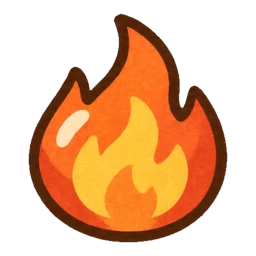
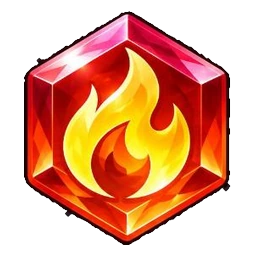
v0.73.0: bộ ngọc 3D mới (ngọc thường + Nâng Cấp), bỏ lớp bóng kính vẽ bằng code
Claude-Session: https://claude.ai/code/session_01Q71dSV1Aw33VZ7jDMhTJpy

diff --git a/www/js/ui/render.js b/www/js/ui/render.js
@@ -50,87 +50,15 @@ function enhancedAura(g, x, y, r) {
   g.restore();
 }
 
-const nowMs = () => (typeof performance !== 'undefined' ? performance.now() : 0);
-
-// Ngọc 2.5D: dựng sẵn một lần cho mỗi art (đổ khối + bóng kính + ánh phản chiếu đáy), vẽ mỗi khung chỉ là drawImage.
-const sprites = new Map();
-function orbSprite(key, im, col, shiny = 1) {
-  if (!im || !im.naturalWidth) return im;
-  const hit = sprites.get(key);
-  if (hit && hit.src === im) return hit.cv;
-  const S = 192;
-  const cv = document.createElement('canvas');
-  cv.width = S; cv.height = S;
-  const c = cv.getContext('2d');
-  c.drawImage(im, 0, 0, S, S);
-  c.globalCompositeOperation = 'source-atop'; // mọi lớp dưới đây chỉ tô lên phần có hình
-  // khối: sáng ở góc trên trái, tối dần về góc dưới phải
-  let gr = c.createRadialGradient(S * 0.36, S * 0.3, S * 0.05, S * 0.5, S * 0.5, S * 0.78);
-  gr.addColorStop(0, 'rgba(255,255,255,0.30)');
-  gr.addColorStop(0.45, 'rgba(255,255,255,0)');
-  gr.addColorStop(1, 'rgba(10,4,0,0.42)');
-  c.fillStyle = gr; c.fillRect(0, 0, S, S);
-  // ánh phản chiếu từ nền, màu của hệ, ở đáy
-  gr = c.createLinearGradient(0, S * 0.62, 0, S);
-  gr.addColorStop(0, col + '00');
-  gr.addColorStop(1, col + '88');
-  c.fillStyle = gr; c.fillRect(0, 0, S, S);
-  // vệt bóng kính lớn (cong, góc trên trái)
-  c.save();
-  c.translate(S * 0.36, S * 0.27);
-  c.rotate(-0.62);
-  gr = c.createLinearGradient(0, -S * 0.12, 0, S * 0.12);
-  gr.addColorStop(0, `rgba(255,255,255,${0.85 * shiny})`);
-  gr.addColorStop(1, 'rgba(255,255,255,0)');
-  c.fillStyle = gr;
-  c.beginPath(); c.ellipse(0, 0, S * 0.2, S * 0.085, 0, 0, Math.PI * 2); c.fill();
-  c.restore();
-  // chấm sáng nhỏ + viền sáng mảnh phía dưới phải
-  c.fillStyle = `rgba(255,255,255,${0.9 * shiny})`;
-  c.beginPath(); c.arc(S * 0.62, S * 0.2, S * 0.022, 0, Math.PI * 2); c.fill();
-  c.globalAlpha = 0.5;
-  c.strokeStyle = '#fff';
-  c.lineWidth = 2;
-  c.beginPath(); c.arc(S * 0.5, S * 0.5, S * 0.44, 0.15 * Math.PI, 0.5 * Math.PI); c.stroke();
-  sprites.set(key, { src: im, cv });
-  return cv;
-}
-
-// Tia lấp lánh bốn cánh, mỗi viên một nhịp riêng (chớp ~0.5s mỗi ~3s).
-function orbTwinkle(g, x, y, r, t) {
-  const k = ((t * 0.001 + x * 0.013 + y * 0.021) % 3.3) / 0.55;
-  if (k >= 1) return;
-  const a = Math.sin(k * Math.PI);
-  const cx = x - r * 0.38, cy = y - r * 0.42, L = r * (0.22 + 0.34 * a);
-  g.save();
-  g.globalCompositeOperation = 'lighter';
-  g.globalAlpha = 0.9 * a;
-  g.fillStyle = '#fff';
-  g.beginPath();
-  g.moveTo(cx, cy - L); g.lineTo(cx + L * 0.16, cy - L * 0.16); g.lineTo(cx + L, cy); g.lineTo(cx + L * 0.16, cy + L * 0.16);
-  g.lineTo(cx, cy + L); g.lineTo(cx - L * 0.16, cy + L * 0.16); g.lineTo(cx - L, cy); g.lineTo(cx - L * 0.16, cy - L * 0.16);
-  g.closePath();
-  g.fill();
-  g.restore();
-}
-
-// Bóng chạm đất mềm dưới ngọc + quầng sáng neon màu hệ phía sau (gradient xuyên tâm, rẻ hơn shadowBlur).
-function orbGlow(g, type, x, y, r) {
-  const sh = g.createRadialGradient(x, y + r * 0.78, 0, x, y + r * 0.78, r * 0.95);
-  sh.addColorStop(0, 'rgba(0,0,0,0.42)');
+// Bóng chạm đất mềm dưới ngọc (art ngọc đã tự có khối, ánh sáng và viền).
+function orbShadow(g, x, y, r) {
+  const sh = g.createRadialGradient(x, y + r * 0.8, 0, x, y + r * 0.8, r * 0.95);
+  sh.addColorStop(0, 'rgba(0,0,0,0.4)');
   sh.addColorStop(1, 'rgba(0,0,0,0)');
   g.save();
-  g.translate(0, 0);
   g.fillStyle = sh;
   g.beginPath();
-  g.ellipse(x, y + r * 0.78, r * 0.95, r * 0.34, 0, 0, Math.PI * 2);
-  g.fill();
-  const gl = g.createRadialGradient(x, y, r * 0.55, x, y, r * 1.28);
-  gl.addColorStop(0, COLORS[type] + '88');
-  gl.addColorStop(1, COLORS[type] + '00');
-  g.fillStyle = gl;
-  g.beginPath();
-  g.arc(x, y, r * 1.28, 0, Math.PI * 2);
+  g.ellipse(x, y + r * 0.8, r * 0.95, r * 0.3, 0, 0, Math.PI * 2);
   g.fill();
   g.restore();
 }
@@ -142,18 +70,16 @@ export function drawOrb(g, type, x, y, r, enhanced = false, alpha = 1) {
   // Ngọc Nâng Cấp có art riêng (huy hiệu viền vàng, cánh, miện); chưa có art thì vẽ ngọc thường + hào quang.
   const imE = enhanced ? getImg(`orbE:${type}`) : null;
   if (imE) {
-    const R = r * 1.14;
-    if (r >= 14) orbGlow(g, type, x, y, r);
-    g.drawImage(orbSprite(`E${type}`, imE, COLORS[type], 0.7), x - R, y - R, R * 2, R * 2);
-    if (r >= 20) orbTwinkle(g, x, y, R, nowMs());
+    const R = r * 1.04;
+    if (r >= 14) orbShadow(g, x, y, r);
+    g.drawImage(imE, x - R, y - R, R * 2, R * 2);
     g.restore();
     return;
   }
   const im = getImg(`orb:${type}`);
   if (im) {
-    if (r >= 14) orbGlow(g, type, x, y, r);
-    g.drawImage(orbSprite(`N${type}`, im, COLORS[type]), x - r, y - r, r * 2, r * 2);
-    if (r >= 20) orbTwinkle(g, x, y, r, nowMs());
+    if (r >= 14) orbShadow(g, x, y, r);
+    g.drawImage(im, x - r, y - r, r * 2, r * 2);
     if (enhanced) enhancedAura(g, x, y, r);
     g.restore();
     return;

diff --git a/www/js/version.js b/www/js/version.js
@@ -1,4 +1,4 @@
 // Tự sinh bởi tools/stamp-version.js, đừng sửa tay.
-export const VERSION = '0.72.0';
-export const BUILD = 138;
+export const VERSION = '0.73.0';
+export const BUILD = 139;
 export const BUILD_DATE = '2026-11-13';
